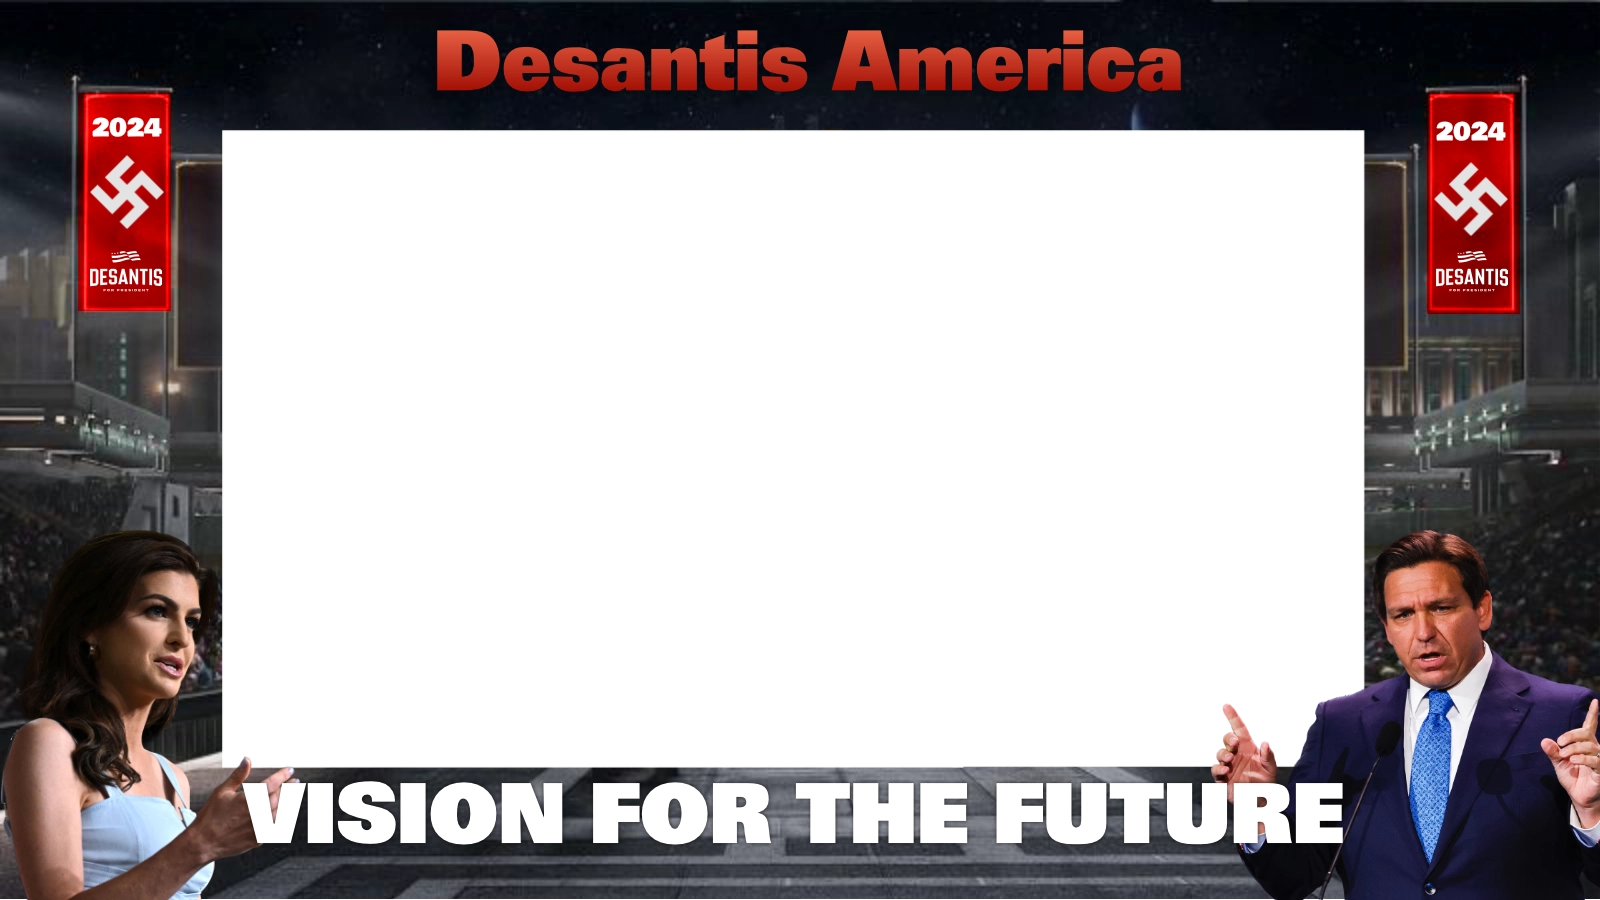
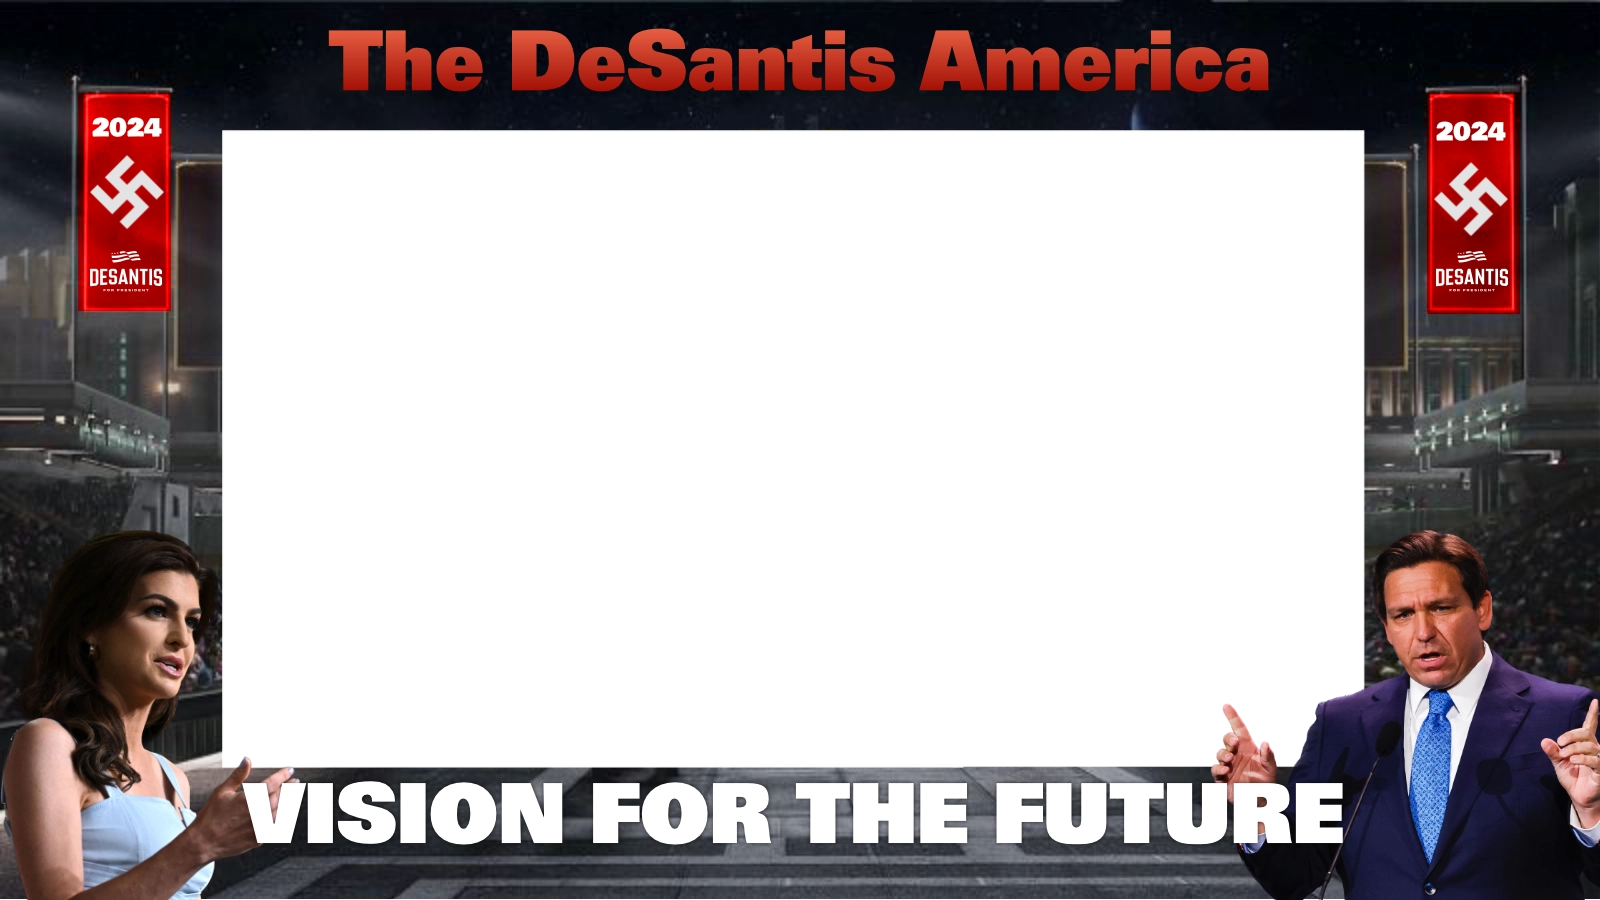
typos

Changed region(s): [[0.1875, 0.0311, 0.8125, 0.1244]]

diff --git a/src/content/posts/desantis-vision.md b/src/content/posts/desantis-vision.md
@@ -1,9 +1,9 @@
 ---
 template: blog-post
-title: The Desantis Vision For America - Are you ready?
+title: The DeSantis Vision For America - Are you ready?
 slug: /desantis-vision
 date: 2023-09-07 16:00
-description: Ramaswamy will say anything and sell anything in order to get your vote.
+description: Ron and Casey DeSantis are what is wrong America. 
 youtube:
  youtuber: "https://www.youtube.com/embed/mVLrBJYGxk4"
  youtuber2: 
